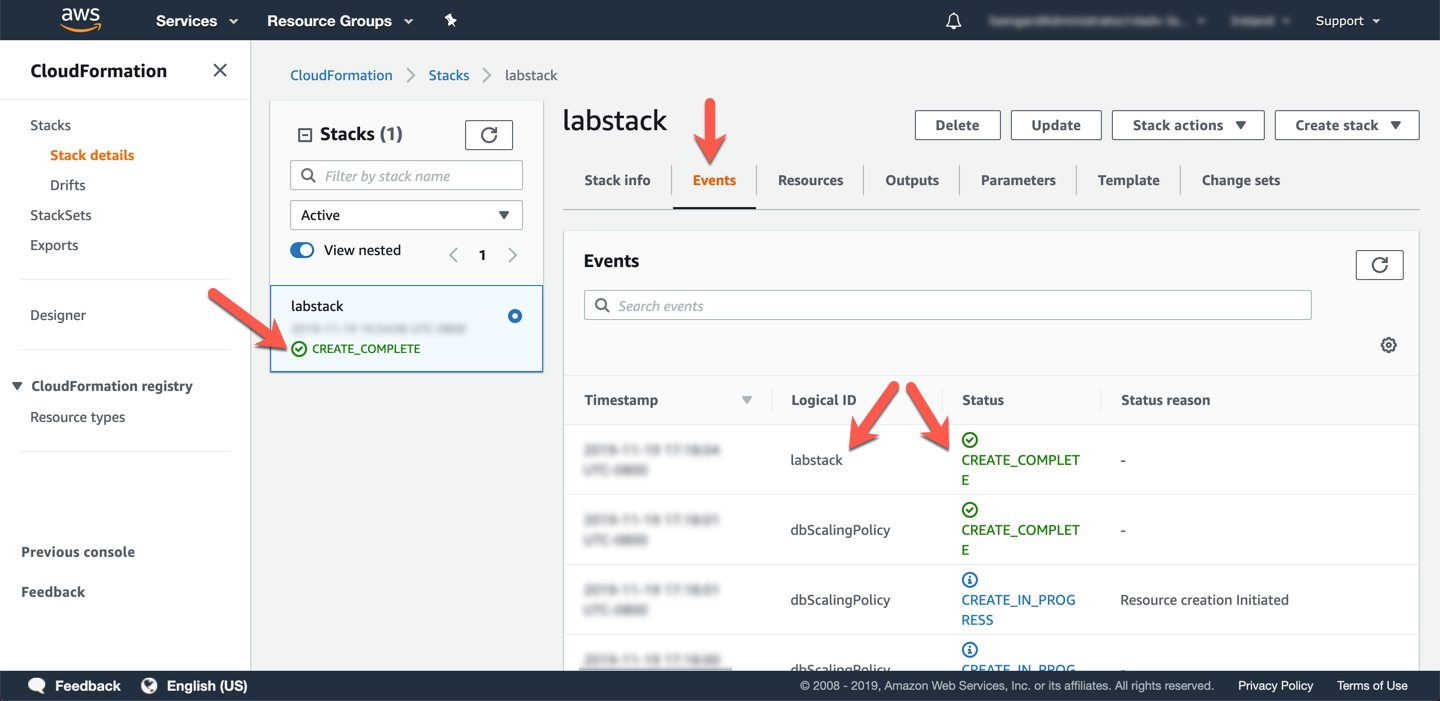
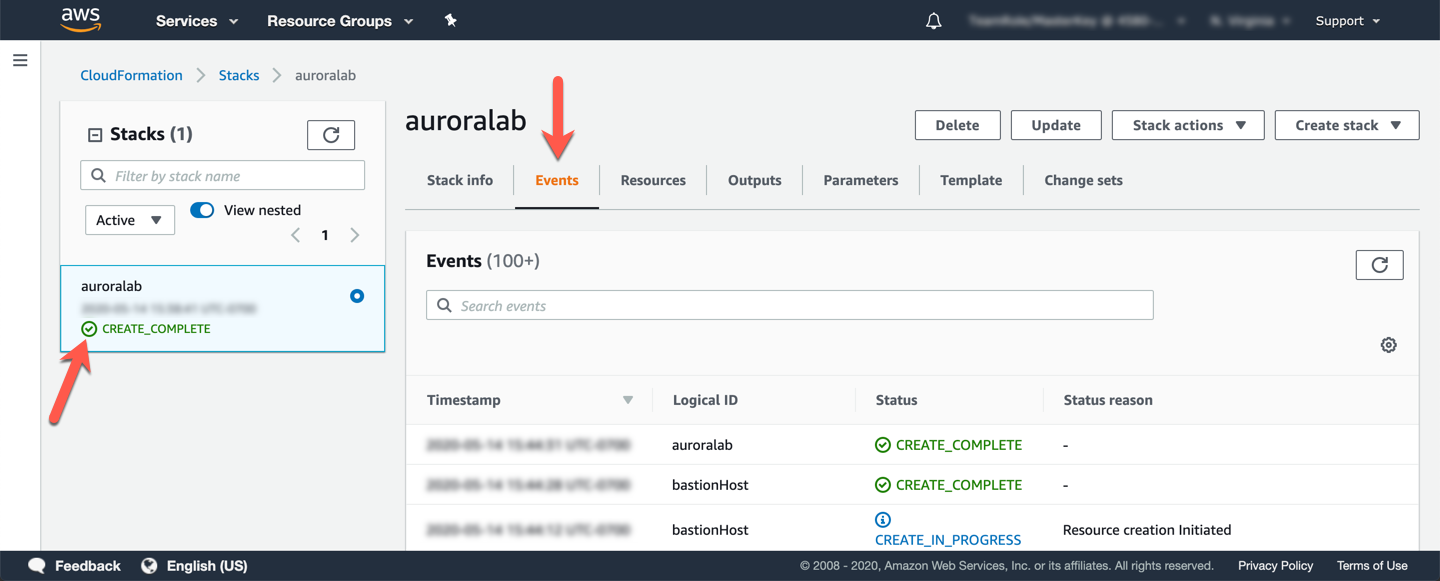
Screenshots and fixes for AMS GDB

diff --git a/docs/win/ams-gdb/index.md b/docs/win/ams-gdb/index.md
@@ -23,9 +23,9 @@ To simplify the getting started experience with the labs, we have created founda
 
 Click **Launch Stack** below to provision a lab environment in the **N Virginia (us-east-1)** region to support the Aurora Global Database.
 
-<a href="https://console.aws.amazon.com/cloudformation/home?region=us-east-1#/stacks/create/review?stackName=labstack&templateURL=https://s3.amazonaws.com/[[bucket]]/templates/lab_template.yml&param_deployCluster=No&param_deployML=No" target="_blank"><img src="/assets/images/cloudformation-launch-stack.png" alt="Launch Stack"></a>
+<a href="https://console.aws.amazon.com/cloudformation/home?region=us-east-1#/stacks/create/review?stackName=auroralab&templateURL=https://s3.amazonaws.com/[[bucket]]/templates/lab_template.yml&param_deployCluster=No&param_deployML=No" target="_blank"><img src="/assets/images/cloudformation-launch-stack.png" alt="Launch Stack"></a>
 
-In the field named **Stack Name**, ensure the value `labstack` is preset. Accept all default values for the remaining parameters.
+In the field named **Stack Name**, ensure the value `auroralab` is preset. Accept all default values for the remaining parameters.
 
 Scroll to the bottom of the page, check the box that reads: **I acknowledge that AWS CloudFormation might create IAM resources with custom names** and then click **Create stack**.
 
@@ -72,25 +72,23 @@ The CloudFormation environment that was provisioned automatically for you, alrea
 
 Once the lab environment created above at **Step 1. Create a lab environment in a different region** has finished deploying, you may proceed.
 
-Open the <a href="https://eu-west-1.console.aws.amazon.com/rds/home?region=eu-west-1#database:id=labstack-mysql-cluster;is-cluster=true" target="_blank">Amazon RDS service console</a> at the MySQL DB cluster details page. If you navigated to the RDS console by means other than the link in this paragraph, click on the `labstack-mysql-cluster` in the **Databases** section of the RDS service console.
+Open the <a href="https://eu-west-1.console.aws.amazon.com/rds/home?region=eu-west-1#database:id=auroralab-mysql-cluster;is-cluster=true" target="_blank">Amazon RDS service console</a> at the MySQL DB cluster details page. If you navigated to the RDS console by means other than the link in this paragraph, click on the `auroralab-mysql-cluster` in the **Databases** section of the RDS service console.
 
 From the **Actions** dropdown button, choose **Add region**.
 
-::TODO:: screenshot
+<span class="image">![RDS Cluster Add Region](rds-cluster-action-add.png?raw=true)</span>
 
-On the setup screen, under **Global database settings**, set the **Global database identifier** to `labstack-mysql-global`. Under **Region**, choose the **Secondary region** of `US East (N. Virginia)`.
+On the setup screen, under **Global database settings**, set the **Global database identifier** to `auroralab-mysql-global`. Under **Region**, choose the **Secondary region** of `US East (N. Virginia)`.
 
 In the **Connectivity** section, expand the sub-section called **Additional connectivity configuration**. This section allows you to specify where the database cluster will be deployed within your defined network configuration created above.
 
-Pick the **Virtual Private Cloud (VPC)** named `labstack-vpc`. Similarly make sure the selected **Subnet Group** also matches the stack name (e.g. `labstack-dbsubnets-[hash]`). Make sure the cluster **Publicly accessible** option is set to **No**. The lab environment also configured a **VPC security group** that allows your lab workspace EC2 instance to connect to the database. Make sure the **Choose existing** security group option is selected and from the dropdown pick the security group named `labstack-mysql-internal`. Please remove any other security groups, such as `default` from the selection.
+Pick the **Virtual Private Cloud (VPC)** named `auroralab-vpc`. Similarly make sure the selected **Subnet Group** also matches the stack name (e.g. `auroralab-dbsubnets-[hash]`). Make sure the cluster **Publicly accessible** option is set to **No**. The lab environment also configured a **VPC security group** that allows your lab workspace EC2 instance to connect to the database. Make sure the **Choose existing** security group option is selected and from the dropdown pick the security group named `auroralab-mysql-internal`. Please remove any other security groups, such as `default` from the selection.
 
-::TODO:: screenshot
+Next, expand the **Advanced configuration** section. Set the **DB instance identifier** to `auroralab-mysql-node-3` and the **DB cluster identifier** to `auroralab-mysql-secondary`. For the **DB cluster parameter group** and **DB parameter group** selectors, choose the groups with the stack name in their name (e.g. `auroralab-[...]`).
 
-Next, expand the **Advanced configuration** section. Set the **DB instance identifier** to `labstack-mysql-node-3` and the **DB cluster identifier** to `labstack-mysql-secondary`. For the **DB cluster parameter group** and **DB parameter group** selectors, choose the groups with the stack name in their name (e.g. `labstack-[...]`).
+Keep the `1 day` **Backup retention period**. Check the box to **Enable Performance Insights** with a **Retention period** of `Default (7 days)` and use the `[default] aws/rds` **Master key** for monitoring data encryption. Next, check the **Enable Enhanced Monitoring** box, and select a **Granularity** of `1 second`.
 
-Keep the `1 day` **Backup retention period**. Check the box to **Enable Performance Insights** with a **Retention period of `Default (7 days)` and use the `[default] aws/rds` **Master key** for monitoring data encryption. Next, check the **Enable Enhanced Monitoring** box, and select a **Granularity** of `1 second`.
-
-::TODO:: screenshot
+<span class="image">![RDS Cluster Add Region](rds-cluster-add-region.png?raw=true)</span>
 
 ??? tip "What do these selections mean?"
     You will create a global cluster, a secondary DB cluster, and DB instance in that secondary cluster, with associated configurations in one step. Your existing DB cluster will become the primary DB cluster in the new global cluster. These are distinct API calls to the RDS service should you create a global cluster using the AWS CLI, SDKs or other tools. The RDS service console, simply combines these distinct steps into a single operation.
@@ -100,20 +98,18 @@ Click **Add region** to provision the global cluster.
 !!! note
     Creating a global cluster based on the existing DB cluster is a seamless operation, your workload will not experience any disruption. You can monitor the performance metrics of the load generator started above, throughout this operation to validate.
 
-The global cluster, including the secondary DB cluster and instance may take several minutes to provisions. In order to connect to the DB cluster and start using it , you need to retrieve the DB cluster endpoints. Unlike a regular DB cluster, only the **Reader Endpoint** is provisioned. The **Cluster Endpoint** is not being provisioned, as secondary DB clusters only contain readers, and cannot accept writes. The **Reader Endpoint** will always resolve to one of the reader DB instances and should be used for low latency read operations within that region. In the RDS console, go to the DB cluster detail view by clicking on the cluster DB identifier.
-
-::TODO:: screenshot
+The global cluster, including the secondary DB cluster and instance may take several minutes to provision. In order to connect to the DB cluster and start using it , you need to retrieve the DB cluster endpoints. Unlike a regular DB cluster, only the **Reader Endpoint** is provisioned. The **Cluster Endpoint** is not being provisioned, as secondary DB clusters only contain readers, and cannot accept writes. The **Reader Endpoint** will always resolve to one of the reader DB instances and should be used for low latency read operations within that region. In the RDS console, go to the DB cluster detail view by clicking on the cluster DB identifier for the secondary DB cluster, named `auroralab-mysql-secondary`.
 
 The **Endpoints** section in the **Connectivity and security** tab of the details page displays the endpoints. Note these values down, as you will use them later.
 
-::TODO:: screenshot
+<span class="image">![RDS Cluster Secondary Endpoints](rds-cluster-secondary-endpoints.png?raw=true)</span>
 
 
 ## 4. Monitor cluster load and replication lag
 
-Since the new **primary DB cluster** was in-use before you created the Global cluster using it, you can review the performance metrics of the cluster. In the RDS service console, select the `labstack-mysql-cluster` (primary), if it is not already selected and toggle to the **Monitoring** tab. You will see a combined view of both the writer and reader DB instances in that cluster. You are not using the reader at this time, the load is directed only to the writer. Navigate through the metrics, and specifically review the **CPU Utilization**, **Commit Throughput**, **DML Throughput**, **Select Throughput** metrics, and notice they are fairly stable, beyond the initial spike caused by the sysbench tool populating an initial data set.
+Since the new **primary DB cluster** was in-use before you created the Global cluster using it, you can review the performance metrics of the cluster. In the RDS service console, select the `auroralab-mysql-cluster` (primary), if it is not already selected and toggle to the **Monitoring** tab. You will see a combined view of both the writer and reader DB instances in that cluster. You are not using the reader at this time, the load is directed only to the writer. Navigate through the metrics, and specifically review the **CPU Utilization**, **Commit Throughput**, **DML Throughput**, **Select Throughput** metrics, and notice they are fairly stable, beyond the initial spike caused by the sysbench tool populating an initial data set.
 
-::TODO:: screenshot
+<span class="image">![RDS Cluster Primary Metrics](rds-cluster-primary-metrics.png?raw=true)</span>
 
 Next you will shift focus to the newly created **secondary DB cluster**. You will create a CloudWatch Dashboard to monitor three key metrics relevant to global clusters, and secondary DB clusters more specifically:
 
@@ -126,57 +122,113 @@ CloudWatch Metric Name | Description
 !!! warning "Region Check"
     You are going to work in a different region in the subsequent steps: N. Virginia (us-east-1). As you have multiple browser tabs and command line sessions open, please make sure you are always operating in the intended region.
 
-Open the <a href="https://console.aws.amazon.com/cloudwatch" target="_blank">Amazon CloudWatch service console</a> in the secondary region.
+Open the <a href="https://console.aws.amazon.com/cloudwatch/home?region=us-east-1#dashboards:" target="_blank">Amazon CloudWatch service console</a> in the secondary region at the **Dashboards** feature.
 
-::TODO:: screenshot
+<span class="image">![CLoudWatch Dashboards Listing](cw-dash-listing.png?raw=true)</span>
 
-Select **Dashboards** on the left menu. Click **Create Dashboard**. Let's name our new dashboard ```aurora-gdb-dashboard``` and click on the **Create Dashboard** button again.
+Click **Create dashboard**. Let's name our new dashboard `auroralab-gdb-dashboard` and click on the **Create dashboard** button again.
+
+<span class="image">![CloudWatch Dashboard Creation](cw-dash-create.png)</span>
 
 Let's add our first widget on the dashboard that will show our replication latency between the secondary and primary Aurora cluster. Select **Number** and then click on **Configure**.
 
-<span class="image">![CloudWatch Dashboard Widgets Creation](cw-widgets.png)</span>
+<span class="image">![CloudWatch Dashboard Add Number Widget](cw-dash-add-number.png)</span>
 
 In the **Add Metric Graph** screen, we will look under the **All Metrics** tab, and select **RDS**, and then select the metrics group named **SourceRegion**.
 
 You should now see a filtered Metric Name `AuroraGlobalDBReplicationLag`, with the SourceRegion column as the name of your primary region of the global cluster. Select this metric using the checkbox.
 
-The widget preview should now be on top with a sample of the lag time in milliseconds. Let's further update the widget. Give it a friendly name by clicking on the edit icon (pencil icon) and rename the widget from `Untitled Graph to `Global DB Replication Lag Avg (1m)`, press the tick/check icon to submit your changes.
+The widget preview should now be on top with a sample of the lag time in milliseconds. Let's further update the widget. Give it a friendly name by clicking on the edit icon (pencil icon) and rename the widget from `Untitled Graph` to `Global DB Replication Lag (avg, 1min)`, press the tick/check icon to submit your changes.
 
 On the bottom, click on the **Graph Metrics** tab to further customize our view. Under the **Statistic** column, we want to change this to `Average` and **Period** to `1 Minute`.
 
 Confirm your settings are similar to the example below, and then click **Create widget**.
 
-<span class="image">![CloudWatch AuroraGlobalDBReplicationLag Metric Widget 1](cw-lag-metric1.png)</span>
+<span class="image">![CloudWatch Widget Configuration](cw-widget-setup.png)</span>
 
 Now you have created your first widget. You can set this to Auto refresh on a set interval on the top right refresh menu.
 
-<span class="image">![CloudWatch Dashboard Refresh Menu](cw-dash-refresh.png)</span>
+Click **Save dashboard** to save your changes.
 
-Click **Save Dashboard** to save your changes.
+<span class="image">![CloudWatch Dashboard Single Widget](cw-dash-single-widget.png)</span>
 
-Next, create a second widget that will show the maximum and average replication latency in a line graph. On the same dashboard, click on the **Add widget** button. This time we select **Line**, and click on **Configure**.
+You can add widgets individually to the dashboard, to build a more complete monitoring dashboard. However, to save some time you will simply update the source of the dashboard with the below JSON specification.
 
-In the **Add Metric Graph** screen, look under the **All Metrics** tab, and select **RDS**, and then select the metrics group named **SourceRegion**.
+First, click the **Actions** dropdown on the dashboard, and choose **View/edit source**.
 
-You should now see a filtered Metric Name `AuroraGlobalDBReplicationLag`, with the SourceRegion column as the name of your primary region of the global cluster. Select this metric using the checkbox.
+<span class="image">![CloudWatch Dashboard Actions](cw-dash-actions.png)</span>
 
-The widget preview should now be on top with a sample of the lag time in milliseconds. Let's further update the widget. Give it a friendly name by clicking on the edit icon (pencil icon) and rename the widget from `Untitled Graph` to `Global DB Replication Lag Max vs. Avg (1m)`, press the tick/check icon to submit your changes.
+In the textbox that appears on the screen, paste the following JSON code. Be sure to update the correct AWS regions, corresponding to your primary and secondary DB clusters, if needed in the code below. Also, if you used different DB cluster identifiers (names) for the DB clusters than the ones indicated in this guide, you will have to update those as well.
 
-On the bottom, click on the **Graph Metrics** tab to further customize our view. Under the **Statistic** column, we want to change this to `Average` and **Period** to `1 Minute`.
+```json
+{
+    "widgets": [
+        {
+            "type": "metric",
+            "x": 0,
+            "y": 0,
+            "width": 6,
+            "height": 3,
+            "properties": {
+                "metrics": [
+                    [ "AWS/RDS", "AuroraGlobalDBReplicationLag", "SourceRegion", "eu-west-1" ]
+                ],
+                "view": "singleValue",
+                "region": "us-east-1",
+                "stat": "Average",
+                "period": 60,
+                "title": "Global DB Replication Lag (avg, 1min)"
+            }
+        },
+        {
+            "type": "metric",
+            "x": 0,
+            "y": 3,
+            "width": 18,
+            "height": 6,
+            "properties": {
+                "metrics": [
+                    [ "AWS/RDS", "AuroraGlobalDBReplicationLag", "SourceRegion", "eu-west-1" ],
+                    [ "...", { "stat": "Maximum" } ]
+                ],
+                "view": "timeSeries",
+                "stacked": false,
+                "region": "us-east-1",
+                "title": "Global DB Replication Lag (max vs. avg, 1min)",
+                "stat": "Average",
+                "period": 60
+            }
+        },
+        {
+            "type": "metric",
+            "x": 6,
+            "y": 0,
+            "width": 12,
+            "height": 3,
+            "properties": {
+                "metrics": [
+                    [ "AWS/RDS", "AuroraGlobalDBReplicatedWriteIO", "DBClusterIdentifier", "auroralab-mysql-secondary", { "label": "Replicated Write I/Os" } ],
+                    [ ".", "AuroraGlobalDBDataTransferBytes", ".", ".", { "label": "Replicated Data Transfer Bytes" } ]
+                ],
+                "view": "singleValue",
+                "region": "us-east-1",
+                "stat": "Sum",
+                "period": 86400,
+                "title": "Replication Costs (sum, 1day)"
+            }
+        }
+    ]
+}
+```
 
-On the right column name **Actions**, click on the Copy/Duplicate icon. This adds a new graphed metric for us. On the newly created one, we want to change the Statistic from `Average` to `Maximum`
+Click **Update** to change the dashboard.
 
-Confirm your settings are similar to the example below, and then click **Create widget**.
+<span class="image">![CloudWatch Dashboard Source](cw-dash-source.png)</span>
 
-<span class="image">![CloudWatch AuroraGlobalDBReplicationLag Metric Widget 2](cw-lag-metric2.png)</span>
+Click **Save dashboard** to make sure the dashboard is saved with the new changes.
 
-Take a moment to understand the metric graph, notice how the average of the ReplicationLag is extremely low, less than 100ms on average. While the Maximum line, representing the worst of replication lag at any given minute hovers around the 1 second mark. Remember this is replicating the data from your source region to the target region, which can be thousands of kilometers or even continents apart.
+<span class="image">![CloudWatch Dashboard Multiple Widgets](cw-dash-multi-widget.png)</span>
 
-Click **Save Dashboard** to save your changes.
-
-**Extra Challenge:** can you add another widget to display the total of Replicated Write IO and Replicated Data Transfer?
-
-<span class="image">![CloudWatch AuroraGlobalDBReplicationLag Metric Widget 3](cw-lag-metric3.png)</span>
 
 ## 5. Promote the secondary region
 
@@ -189,35 +241,43 @@ In the event of a DR condition where you application in the primary region is im
 
 Next you will promote the secondary region to a stand alone DB cluster.
 
-Open the <a href="https://console.aws.amazon.com/rds/home?region=us-east-1#database:id=labstack-mysql-secondary;is-cluster=true" target="_blank">Amazon RDS service console</a> in the secondary region (N. Virginia) at the secondary DB cluster details page.
+Open the <a href="https://console.aws.amazon.com/rds/home?region=us-east-1#database:id=auroralab-mysql-secondary;is-cluster=true" target="_blank">Amazon RDS service console</a> in the secondary region (N. Virginia) at the secondary DB cluster details page.
 
 From the **Actions** dropdown button, choose **Remove from Global**.
 
-::TODO:: screenshot
+<span class="image">![RDS Cluster Action Remove](rds-cluster-action-remove.png)</span>
 
 Confirm at the prompt that you wish to perform this operation, by clicking **Remove and promote**. The process can take up to a minute to complete.
 
-::TODO:: screenshot
+<span class="image">![RDS Cluster Action Remove](rds-cluster-remove-global.png)</span>
 
-Once completed, you will notice that the DB cluster `labstack-mysql-secondary` is no longer part of the global cluster, and appears as an independent cluster with a **Regional** role. The single DB instance, member of this cluster has now a **Writer** role. At this point you can leverage this DB cluster for both reads and writes.
+Once completed, you will notice that the DB cluster `auroralab-mysql-secondary` is no longer part of the global cluster, and appears as an independent cluster with a **Regional** role. The single DB instance, member of this cluster has now a **Writer** role. At this point you can leverage this DB cluster for both reads and writes.
 
-::TODO:: screenshot
+<span class="image">![RDS Cluster Promoted](rds-cluster-promoted.png)</span>
 
 ## 6. Cleanup lab resources
 
 By running this lab, you have created additional AWS resources. We recommend you run the commands below to remove these resources once you have completed this lab, to ensure you do not incur any unwanted charges for using these services.
 
-With the RDS console of the secondary region open from above, select the DB instance of the newly promoted DB cluster, named `labstack-mysql-node-3`. From the **Actions** dropdown button, choose **Delete**.
+With the RDS console of the secondary region open from above, select the DB instance of the newly promoted DB cluster, named `auroralab-mysql-node-3`. From the **Actions** dropdown button, choose **Delete**.
 
-::TODO:: screenshot
+<span class="image">![RDS Instance Delete](rds-instance-action-delete.png)</span>
 
 **Uncheck** the checkbox next to **Create final snapshot?**. In a real life scenario, we recommend you create a final snapshot just in case you delete the DB cluster prematurely. However we will no longer need this DB cluster in this workshop.
 
 **Check** the box next to **I acknowledge that upon instance deletion, automated backups, including system snapshots and point-in-time recovery, will no longer be available.**, and type `delete me` in the text box to confirm you want to delete the DB cluster. These steps are precautions to ensure customers do not delete resources accidentally.
 
-:: TODO:: screenshot
+<span class="image">![RDS Instance Delete Confirm](rds-instance-delete-confirm.png)</span>
 
 Both the DB instance as well as the DB cluster will be deleted by this operation.
 
 !!! note
     Unlike in the DB cluster cloning lab before, the RDS service console **combines both API calls** to delete the DB instance and to delete the DB cluster in a single operation, if you are deleting the last DB instance of a DB cluster.
+
+Next, remove the primary DB cluster from the Global Database, following the same process like on step **5. Promote the secondary region**, only for the primary DB cluster (named `auroralab-mysql-cluster`), this time.
+
+Once removed, please delete the now empty global cluster named `auroralab-mysql-global` by selecting it, and choosing **Delete** in the **Actions** dropdown.
+
+<span class="image">![RDS Global Action Delete](rds-global-action-delete.png)</span>
+
+Confirm the deletion request by typing `delete me` in the text box, and clicking **Delete**.
